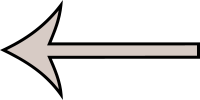
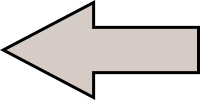
improve arrow precision and draw over ground art

diff --git a/js/Main.js b/js/Main.js
@@ -260,6 +260,17 @@ function drawGame() {
 
 	drawFloorTiles();
 	visibleTileEntities = getVisibleTileEntities();
+
+	canvasContext.save();
+	canvasContext.translate(-camPanX, -camPanY);
+
+	// ground art
+	for (i = 0; i < GroundArt.length; i++)
+	{
+		canvasContext.drawImage(window[GroundArt[i].imgName], GroundArt[i].x, GroundArt[i].y);
+	}
+	
+	canvasContext.restore()
 	
 	// show tutorial arrow
 	canvasContext.save();
@@ -286,20 +297,14 @@ function drawGame() {
 		
 		if (showArrow) {
 			var arrowWidth = 50;
-			var arrowHeight = 25;
+			var arrowHeight = 30;
 			canvasContext.drawImage(tutorialArrow, -arrowWidth / 2 - 45, -arrowHeight / 2, arrowWidth, arrowHeight);
 		}
 	}
 	canvasContext.restore();
-
+	
 	canvasContext.save();
 	canvasContext.translate(-camPanX, -camPanY);
-
-	// ground art
-	for (i = 0; i < GroundArt.length; i++)
-	{
-		canvasContext.drawImage(window[GroundArt[i].imgName], GroundArt[i].x, GroundArt[i].y);
-	}
 
 	// sorted art
 	SortedDrawList = [];

diff --git a/js/Player.js b/js/Player.js
@@ -288,7 +288,7 @@ function PlayerClass() {
 					}
 					else {
 						showHealArrow = true;
-						angleToHealLocation = Math.atan2(this.centerY() - objectCenterY, this.centerX() - objectCenterX);
+						angleToHealLocation = Math.atan2(this.centerY() - objectCenterY -25, this.centerX() - objectCenterX);
 					}
 				}
 				else if (SortedArt[i].imgName == "typewriter") {
